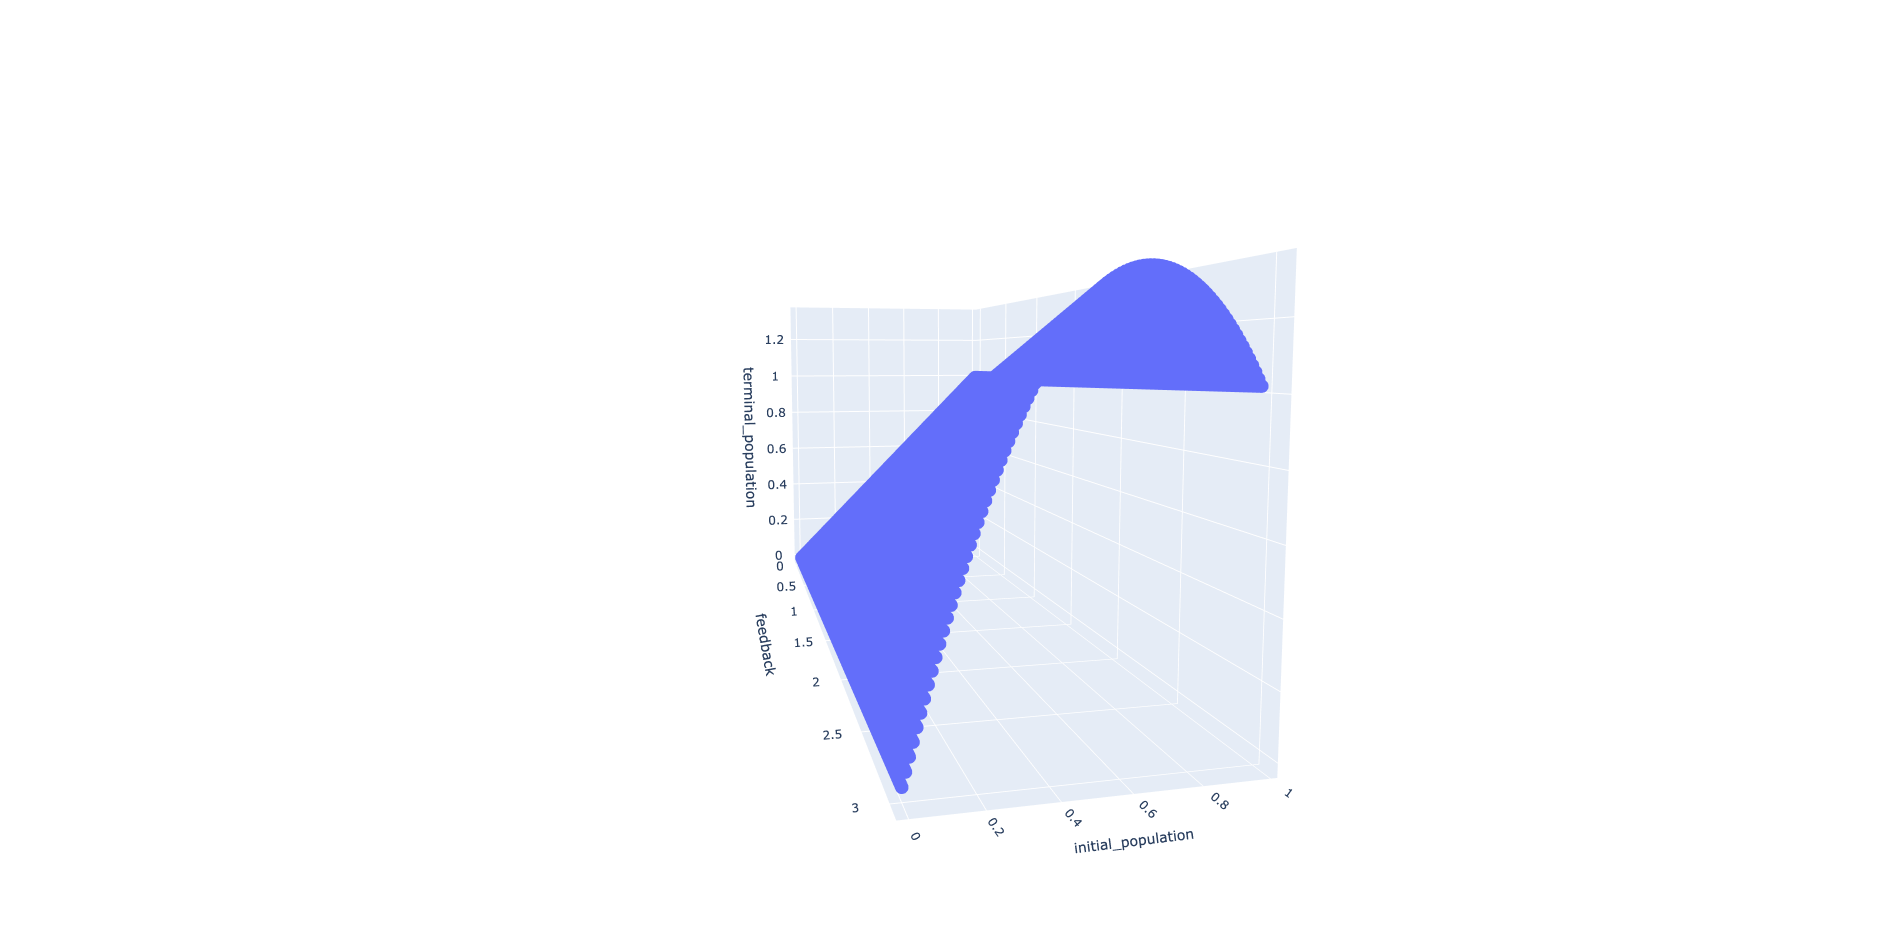
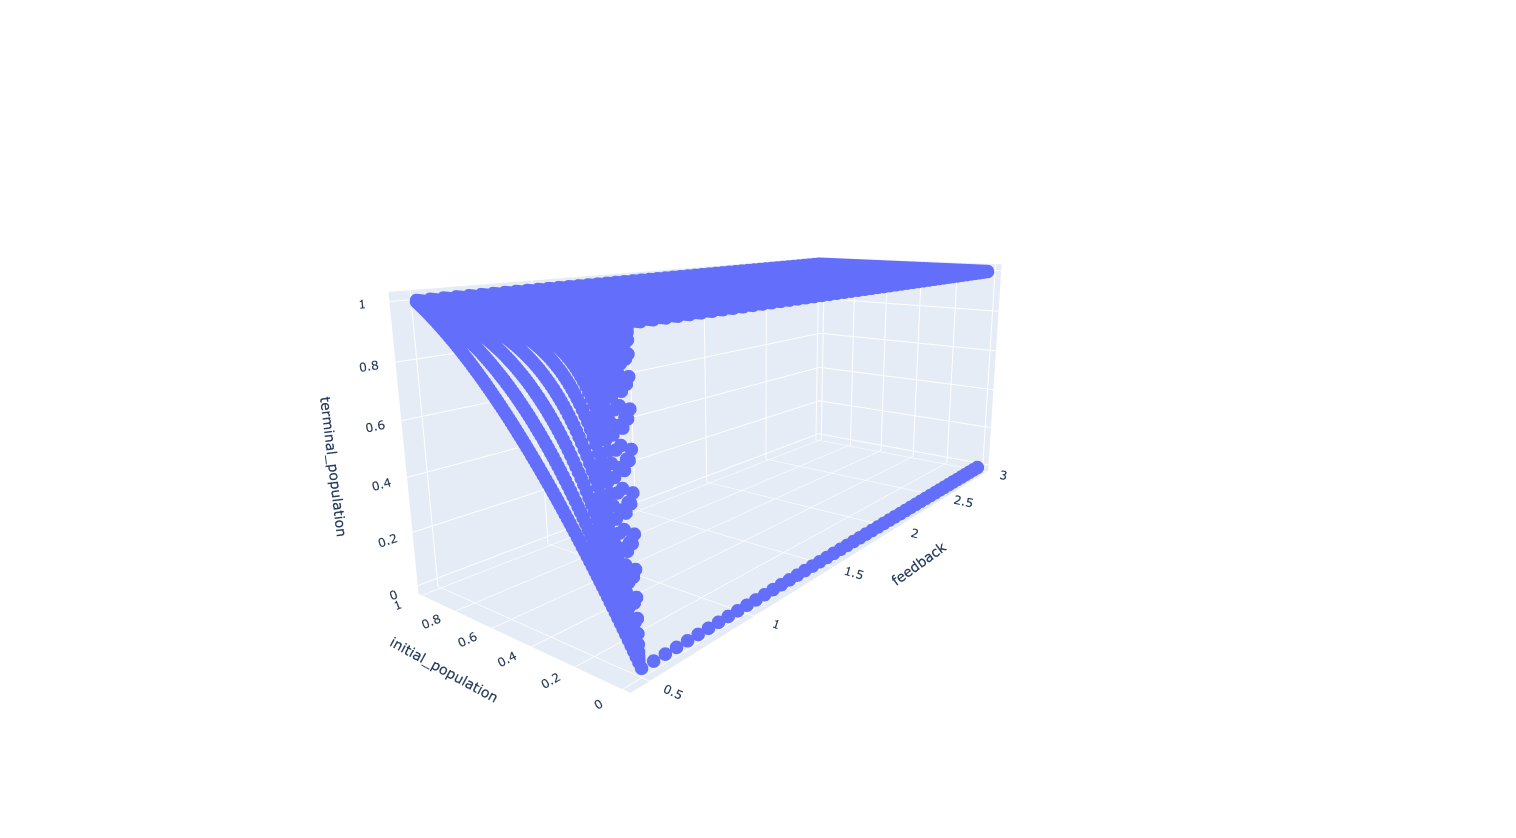
Rework Measles Number Logic

Changed region(s): [[0.217, 0.2482, 0.6821, 0.8998], [0.31, 0.8067, 0.341, 0.8377], [0.279, 0.7757, 0.31, 0.8067]]

diff --git a/measles_number.py b/measles_number.py
@@ -14,20 +14,22 @@ def main():
     population: float = 0.0
     population_target: float = 1.0
     popluation_step: float = 0.01
+    p: float = 0.3
 
     feedback: float = 0.0
     feedback_target: float = 3.0
-    feedback_step: float = 0.001
+    feedback_step: float = 0.05
 
-    maximal_iteration: int = 10
+    maximal_iteration: int = 30
 
     d: list = []
 
     for p in np.arange(0, population_target, popluation_step):
-        for k in np.arange(0, feedback_target, feedback_step):
+        population = p
+        for k in np.arange(0.5, feedback_target, feedback_step):
             for i in range(maximal_iteration):
-                population = f(p, k)
-            d.append([k, p, population])
+                population = f(population, k)
+                d.append([k, p, population])
 
     df = pd.DataFrame(
         data=d, columns=['feedback', 'initial_population', 'terminal_population'])
